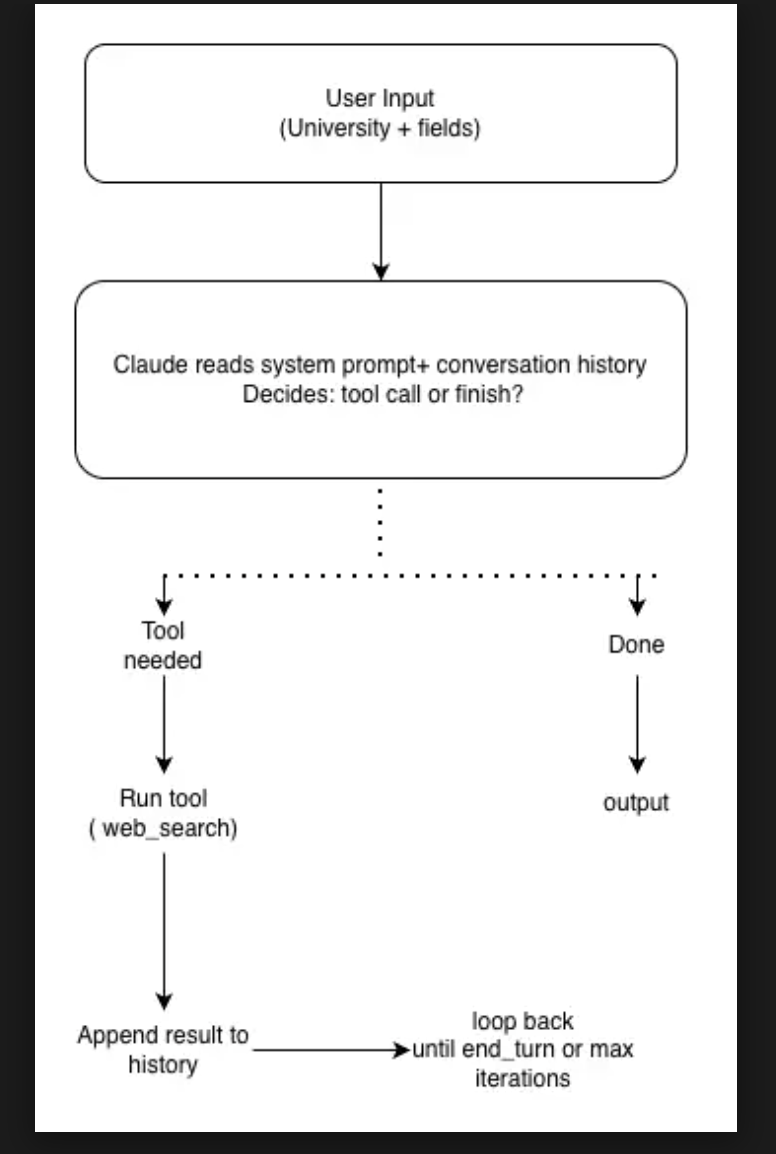
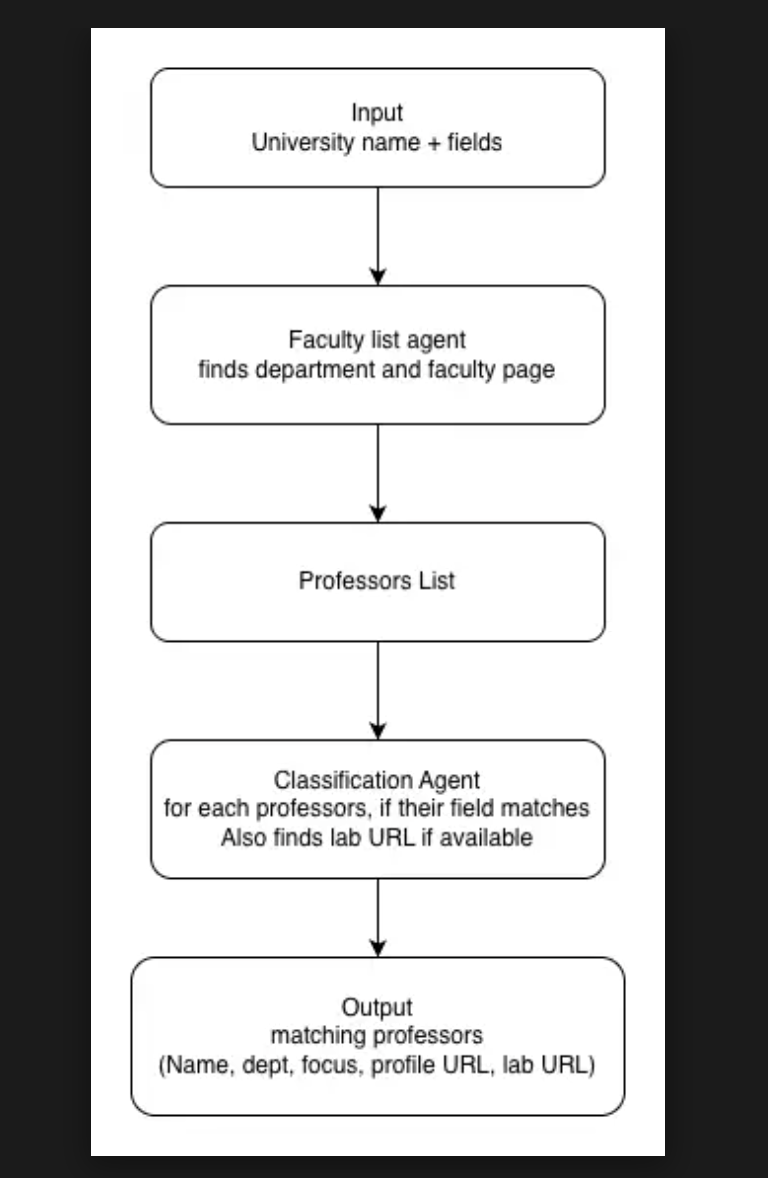
Added README

Changed region(s): [[0.0312, 0.0, 0.9688, 0.9983], [0.7812, 0.0624, 0.8125, 0.156]]

diff --git a/README.md b/README.md
@@ -5,4 +5,5 @@ each matching professor's name, title, department, research focus, profile URL a
 
 
 # The agent loop
-![Agent loop diagram](IMG/Img1.png)
+![Architecture](IMG/Img1.png)
+![Agent loop diagram](IMG/Img2.png)
